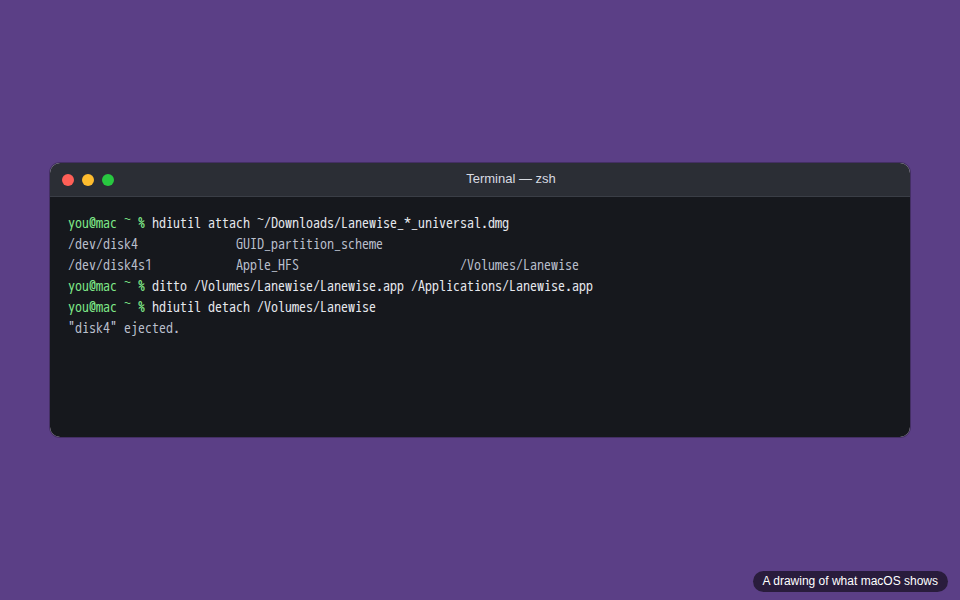
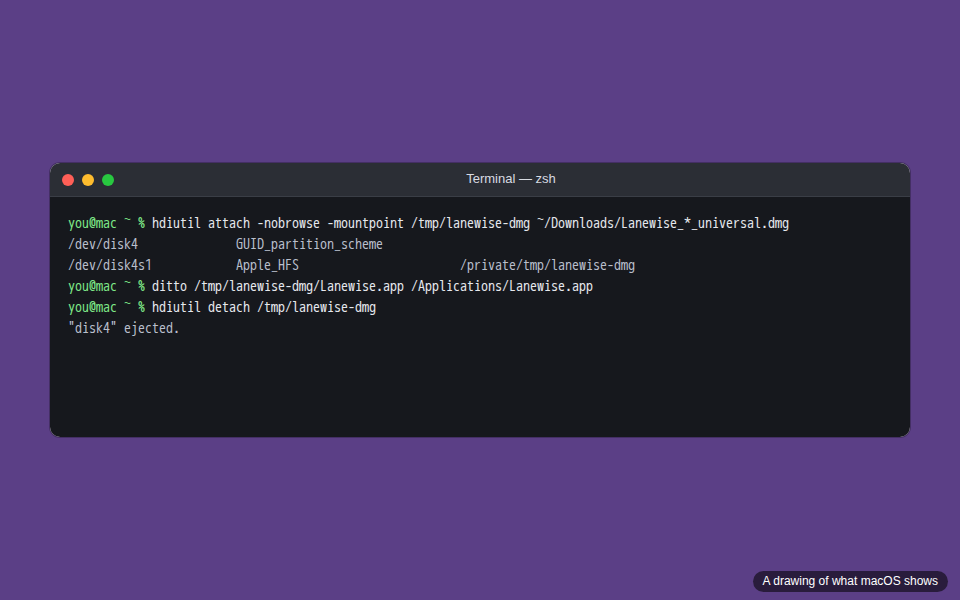
docs: mount the disk image at a folder of its own in the Terminal steps
With another Lanewise disk image already open, macOS mounts the next at
/Volumes/Lanewise 1, so the commands copied the wrong app and ejected the
other. Mounting it at /tmp/lanewise-dmg works either way, as was checked
against the 1.5.0 disk image.

Changed region(s): [[0.25, 0.36, 0.8438, 0.39], [0.1875, 0.45, 0.4062, 0.54], [0.4688, 0.42, 0.6562, 0.45]]

diff --git a/app/scripts/setupGuide/drawings.tsx b/app/scripts/setupGuide/drawings.tsx
@@ -508,10 +508,10 @@ export const DRAWINGS = {
     <Terminal
       system="macos"
       lines={[
-        { command: "hdiutil attach ~/Downloads/Lanewise_*_universal.dmg" },
-        { output: "/dev/disk4          \tGUID_partition_scheme\n/dev/disk4s1        \tApple_HFS                      \t/Volumes/Lanewise" },
-        { command: "ditto /Volumes/Lanewise/Lanewise.app /Applications/Lanewise.app" },
-        { command: "hdiutil detach /Volumes/Lanewise" },
+        { command: "hdiutil attach -nobrowse -mountpoint /tmp/lanewise-dmg ~/Downloads/Lanewise_*_universal.dmg" },
+        { output: "/dev/disk4          \tGUID_partition_scheme\n/dev/disk4s1        \tApple_HFS                      \t/private/tmp/lanewise-dmg" },
+        { command: "ditto /tmp/lanewise-dmg/Lanewise.app /Applications/Lanewise.app" },
+        { command: "hdiutil detach /tmp/lanewise-dmg" },
         { output: '"disk4" ejected.' },
       ]}
     />

diff --git a/website/src/Setup.tsx b/website/src/Setup.tsx
@@ -118,9 +118,9 @@ const MACOS_INSTALL: Step[] = [
     commands: [
       "cd ~/Downloads",
       "curl -fsSL https://api.github.com/repos/adrianeyre/lanewise/releases/latest | grep -o 'https://[^\"]*_universal\\.dmg' | head -n 1 | xargs curl -fLO",
-      "hdiutil attach ~/Downloads/Lanewise_*_universal.dmg",
-      "ditto /Volumes/Lanewise/Lanewise.app /Applications/Lanewise.app",
-      "hdiutil detach /Volumes/Lanewise",
+      "hdiutil attach -nobrowse -mountpoint /tmp/lanewise-dmg ~/Downloads/Lanewise_*_universal.dmg",
+      "ditto /tmp/lanewise-dmg/Lanewise.app /Applications/Lanewise.app",
+      "hdiutil detach /tmp/lanewise-dmg",
     ],
   },
   {

diff --git a/website/src/Site.test.tsx b/website/src/Site.test.tsx
@@ -123,7 +123,7 @@ test("Install gives every Terminal command for opening the Mac app, which isn't 
   for (const command of [
     "brew install git",
     "brew install --cask git-credential-manager",
-    "hdiutil attach ~/Downloads/Lanewise_*_universal.dmg",
+    "hdiutil attach -nobrowse -mountpoint /tmp/lanewise-dmg ~/Downloads/Lanewise_*_universal.dmg",
     "xattr -d com.apple.quarantine /Applications/Lanewise.app",
     "xattr -dr com.apple.quarantine /Applications/Lanewise.app",
     "xattr -cr /Applications/Lanewise.app",

diff --git a/docs/setup/macos.md b/docs/setup/macos.md
@@ -105,12 +105,14 @@ Double-click the disk image to open it, drag **Lanewise** onto **Applications**,
 Or do it from Terminal:
 
 ```bash
-hdiutil attach ~/Downloads/Lanewise_*_universal.dmg
-ditto /Volumes/Lanewise/Lanewise.app /Applications/Lanewise.app
-hdiutil detach /Volumes/Lanewise
+hdiutil attach -nobrowse -mountpoint /tmp/lanewise-dmg ~/Downloads/Lanewise_*_universal.dmg
+ditto /tmp/lanewise-dmg/Lanewise.app /Applications/Lanewise.app
+hdiutil detach /tmp/lanewise-dmg
 ```
 
-![Terminal running hdiutil attach on the disk image, which mounts it at /Volumes/Lanewise, ditto copying Lanewise.app to Applications, and hdiutil detach, which says the disk was ejected.](pictures/macos-disk-image-terminal.png)
+Mounting it at a folder of its own, rather than under `/Volumes`, means the commands work even when another Lanewise disk image is already open.
+
+![Terminal running hdiutil attach on the disk image with a mount point of its own, which mounts it at /private/tmp/lanewise-dmg, ditto copying Lanewise.app from there to Applications, and hdiutil detach, which says the disk was ejected.](pictures/macos-disk-image-terminal.png)
 
 Open Lanewise from Applications, not from the disk image or Downloads. macOS runs a quarantined app from somewhere else on disk when it hasn't been moved, and it can't update itself there.
 
